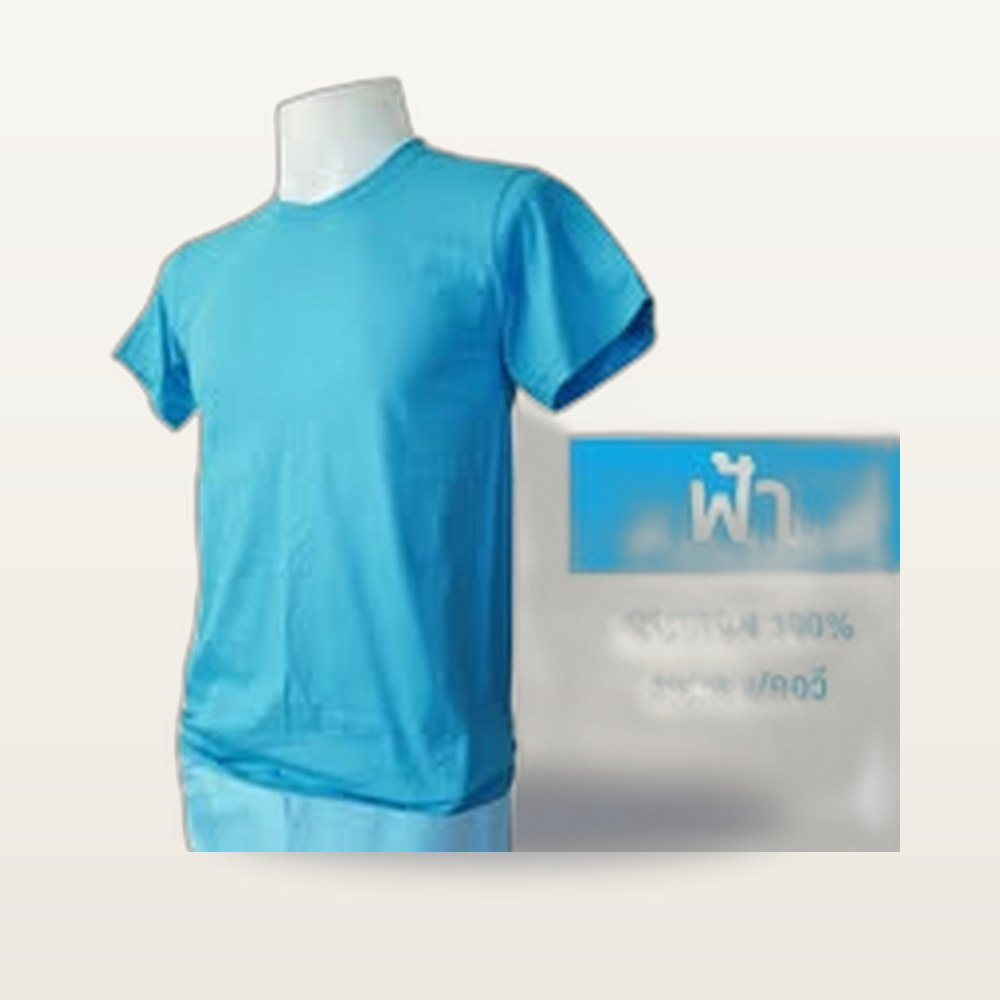
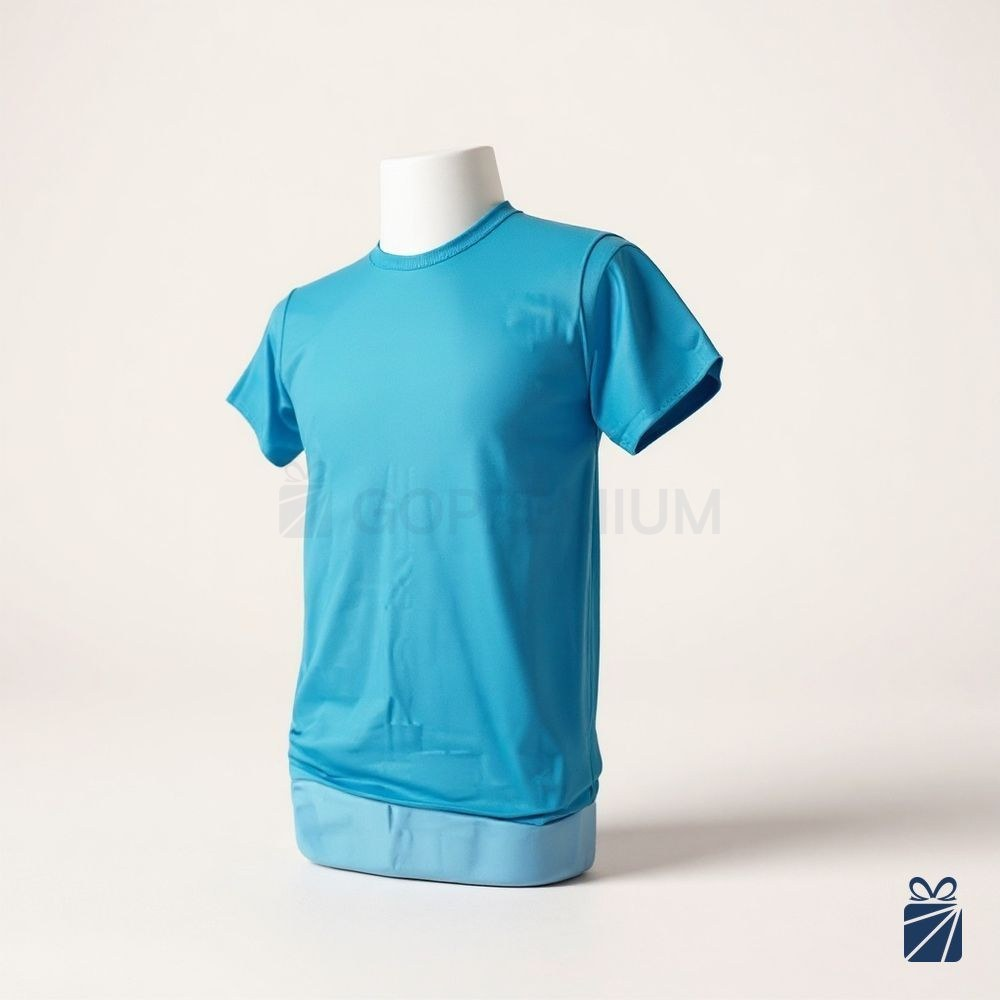
fix(express): route /express,/portfolio,/about on clean-path load + restyle 7 express photos
routeFromPath() missed /express, /portfolio, /about so direct/clean-path
loads fell through to the home view. Add the 3 cases.
Also: replace 7 express SKU square images (EX022,EX010,EX001,EX008,EX004,
EX020,EX056) with catalogue-look Flux Kontext restyles + faint GoPremium watermark.

diff --git a/public/v2.html b/public/v2.html
@@ -856,17 +856,17 @@ function viewHome(){
   // product pages. Express fan+umbrella keep their stamped originals (express photos
   // carry the placeholder catalogue-wide by design).
   const CATS2=[
-    ['drinkware','แก้ว &amp; กระบอกน้ำ','DRINKWARE','images/home/covers/dw006-milo-square.jpg?v=2'],
-    ['bags','กระเป๋า &amp; ถุงผ้า','BAG','images/home/covers/bg007-rin-square.jpg?v=2'],
-    ['stationery','เครื่องเขียน &amp; สำนักงาน','STATIONERY','images/home/covers/st007-folio-square.jpg?v=2'],
-    ['fan','พัดลมพกพา &amp; แกดเจ็ต','MINI FAN','images/products/ex022-fan/ex022-fan-square.jpg?v=3'],
+    ['drinkware','แก้ว &amp; กระบอกน้ำ','DRINKWARE','images/home/covers/dw006-milo-square.jpg?v=4'],
+    ['bags','กระเป๋า &amp; ถุงผ้า','BAG','images/home/covers/bg007-rin-square.jpg?v=4'],
+    ['stationery','เครื่องเขียน &amp; สำนักงาน','STATIONERY','images/home/covers/st007-folio-square.jpg?v=4'],
+    ['fan','พัดลมพกพา &amp; แกดเจ็ต','MINI FAN','images/home/covers/ex023-fan-square.jpg?v=4'],
     ['umbrella','ร่มพรีเมียม','UMBRELLA','images/products/ex010-umbrella/ex010-umbrella-square.jpg?v=3'],
-    ['giftset','กิฟต์เซ็ต','GIFTSET','images/home/covers/gs003-business-executive-square.jpg?v=2'],
-    ['lifestyle','ไลฟ์สไตล์ &amp; ของใช้','LIFESTYLE','images/home/covers/ls012-smart-grip-flex-square.jpg?v=2'],
+    ['giftset','กิฟต์เซ็ต','GIFTSET','images/home/covers/gs003-business-executive-square.jpg?v=4'],
+    ['lifestyle','ไลฟ์สไตล์ &amp; ของใช้','LIFESTYLE','images/home/covers/ls012-smart-grip-flex-square.jpg?v=4'],
   ];
   // Homepage-only "Your Logo" copies for the featured-product cards (by image base).
   const HOME_COVERS=new Set(['dw006-milo-square','bg007-rin-square','st007-folio-square','gs003-business-executive-square','ls012-smart-grip-flex-square','dw001-loopa-square','bg003-everyday-square','um002-automatic-premium-square']);
-  const homeCover=p=>{const b=(p.img||'').split('?')[0].split('/').pop().replace('.jpg','');return HOME_COVERS.has(b)?`images/home/covers/${b}.jpg?v=2`:pimg(p);};
+  const homeCover=p=>{const b=(p.img||'').split('?')[0].split('/').pop().replace('.jpg','');return HOME_COVERS.has(b)?`images/home/covers/${b}.jpg?v=4`:pimg(p);};
   const OCCS2=[
     ['newyear','ของขวัญปีใหม่','กิฟต์เซ็ตและของพรีเมียมสำหรับมอบพนักงาน ลูกค้า และคู่ค้าช่วงปลายปี','images/home/occ-newyear.jpg','พีคสุด'],
     ['welcome','ชุดต้อนรับพนักงานใหม่','Welcome kit สร้างความประทับใจวันแรก เสริมภาพลักษณ์องค์กร','images/home/occ-welcome.jpg',null],
@@ -1598,6 +1598,9 @@ function routeFromPath(){
   let p;try{p=decodeURIComponent(location.pathname);}catch(e){p=location.pathname;}
   if(p==='/products'||p==='/catalogue')return '/all';
   if(p==='/quote')return '/quote';
+  if(p==='/express')return '/express';
+  if(p==='/portfolio')return '/portfolio';
+  if(p==='/about')return '/about';
   let m;
   if((m=p.match(/^\/category\/([^/]+)\/?$/)))return '/c/'+m[1];
   // alias สำหรับ slug โอกาสของแอปเก่าที่อาจติด index แล้ว
